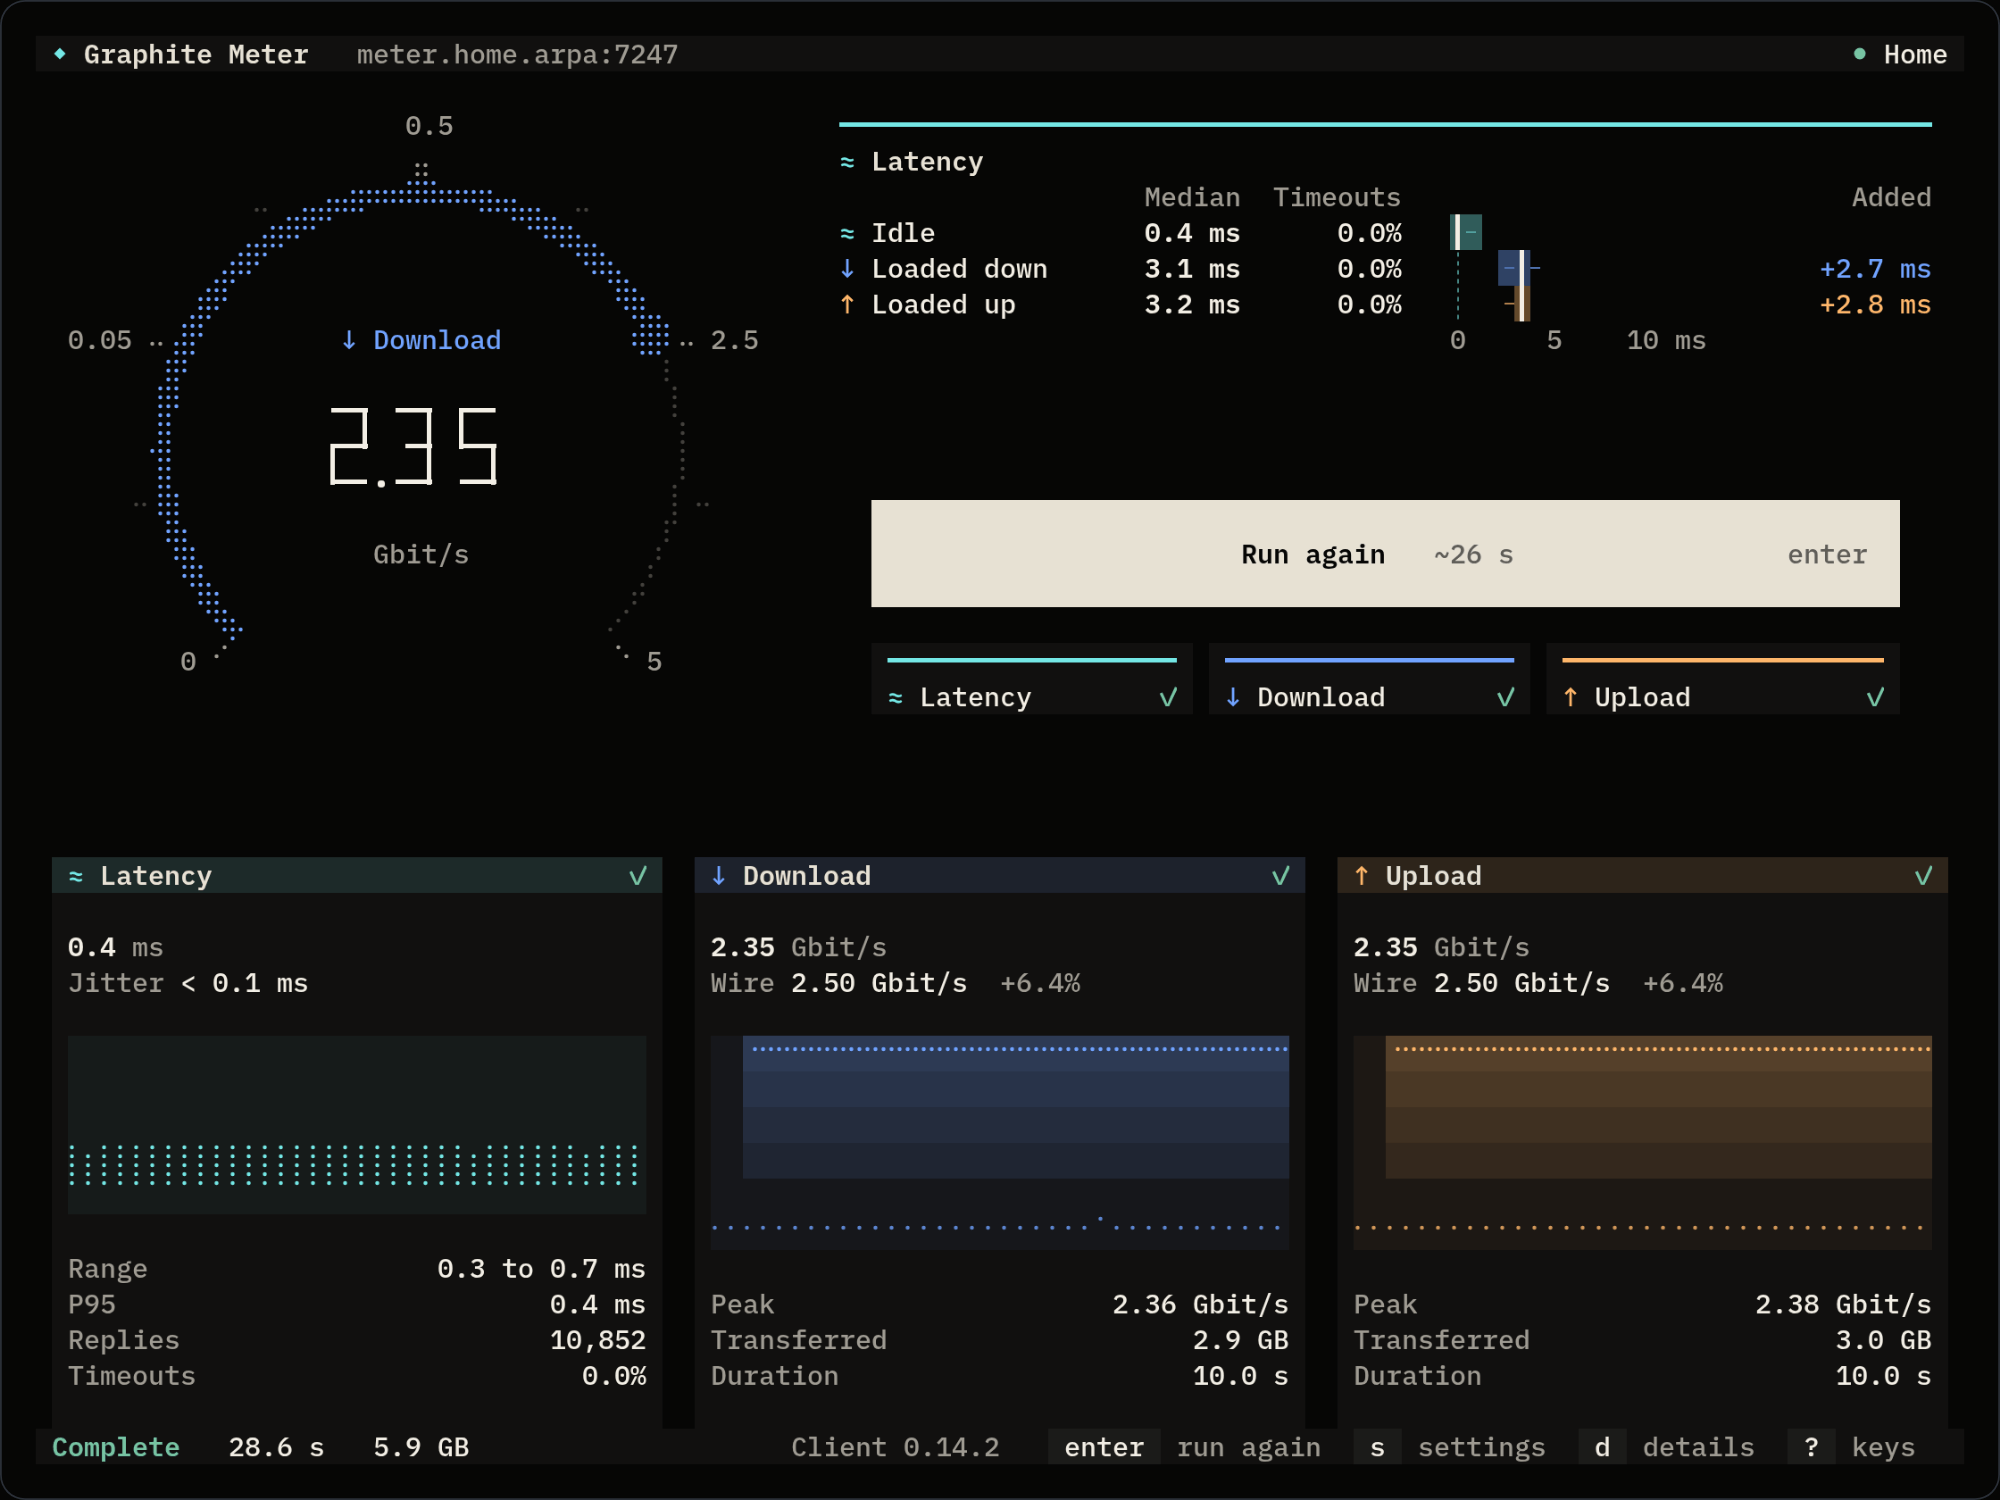
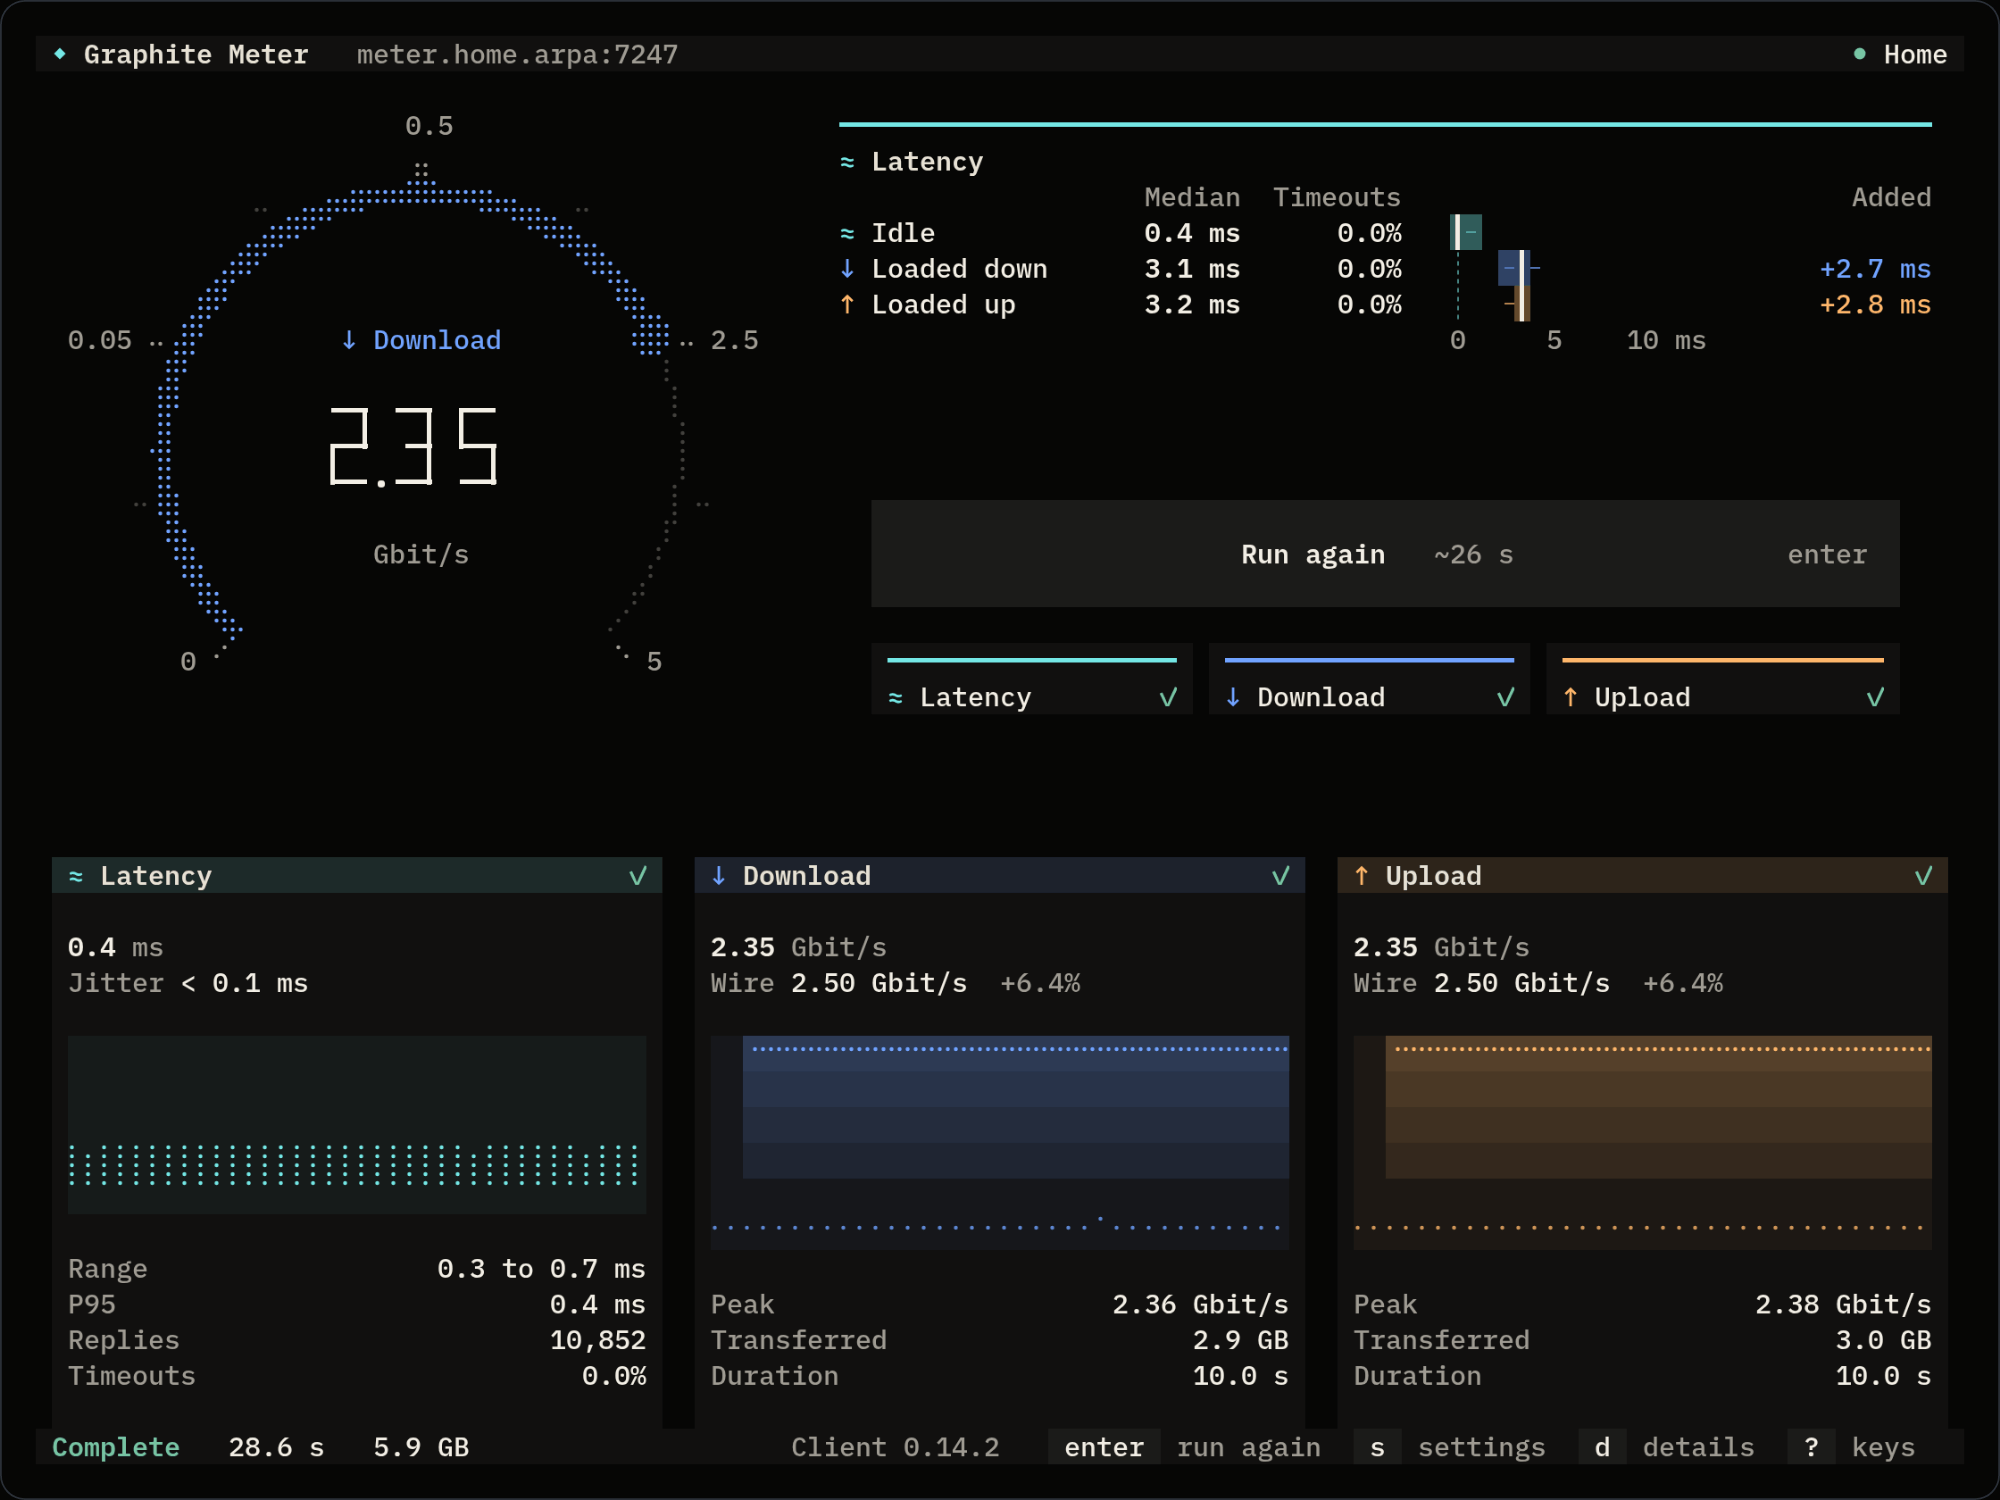
Use a neutral terminal run control

Changed region(s): [[0.434, 0.3067, 0.961, 0.4293]]

diff --git a/rust/client/tests/tui.rs b/rust/client/tests/tui.rs
@@ -941,6 +941,33 @@ fn the_console_follows_a_download_and_takes_presses() {
 }
 
 #[test]
+fn the_run_key_keeps_a_neutral_surface_in_both_themes() {
+    for dark in [false, true] {
+        let now = Instant::now();
+        let mut app = App::new(
+            config(),
+            None,
+            (Profile::TrueColor, Palette::new(dark)),
+            now,
+        );
+        app.tick(now);
+        app.event(&prepared(), now);
+        let (x, y) = find(&mut app, now, "Start test");
+        let mut buffer = Buffer::empty(FULL);
+        app.draw(&mut buffer, now);
+        let ratatui_core::style::Color::Rgb(r, g, b) = buffer[(x, y)].bg else {
+            panic!("run key must have a true-color surface");
+        };
+        let brightness = (u16::from(r) + u16::from(g) + u16::from(b)) / 3;
+        if dark {
+            assert!(brightness < 64, "dark run key is too bright: {brightness}");
+        } else {
+            assert!(brightness > 180, "light run key is too dark: {brightness}");
+        }
+    }
+}
+
+#[test]
 fn a_confirmed_drop_reads_on_the_card_and_in_the_report_with_its_time_and_both_rates() {
     let now = Instant::now();
     let mut app = running(&["a"], &[(Stage::Download, SECOND * 10)], now);

diff --git a/rust/client/src/style.rs b/rust/client/src/style.rs
@@ -62,9 +62,7 @@ pub struct Palette {
     pub err: Style,
     pub border: Style,
     pub cursor: Style,
-    /// The run key's plate: Stop's, and that of a key that cannot be pressed.
-    pub plate: Style,
-    pub plate_note: Style,
+    /// The run key's plate when it cannot be pressed.
     pub plate_off: Style,
     /// Tiles one step over the canvas, plates and key caps two; the pointer's wash and the focused row's.
     pub surface: Color,
@@ -107,14 +105,6 @@ impl Palette {
             cursor: Style {
                 bg: Some(pick(TEXT)),
                 ..Style::fg(canvas)
-            },
-            plate: Style {
-                bg: Some(pick(INK)),
-                ..Style::fg(canvas)
-            },
-            plate_note: Style {
-                bg: Some(pick(INK)),
-                ..Style::fg(mix(pick(INK), canvas, 0.4))
             },
             plate_off: Style {
                 bg: Some(pick(PLATE_OFF)),

diff --git a/rust/client/src/tui/console.rs b/rust/client/src/tui/console.rs
@@ -243,13 +243,18 @@ impl App {
                 } else {
                     "Start test"
                 };
-                let mut plate = palette.plate;
-                if hovered {
-                    plate.bg = plate.bg.map(|ink| mix(palette.canvas(), ink, 0.12));
-                }
+                let surface = if hovered {
+                    palette.selected
+                } else {
+                    palette.raised
+                };
+                let plate = Style {
+                    bg: Some(surface),
+                    ..palette.value
+                };
                 let faint = Style {
                     bg: plate.bg,
-                    ..palette.plate_note
+                    ..palette.muted
                 };
                 (
                     label.into(),
